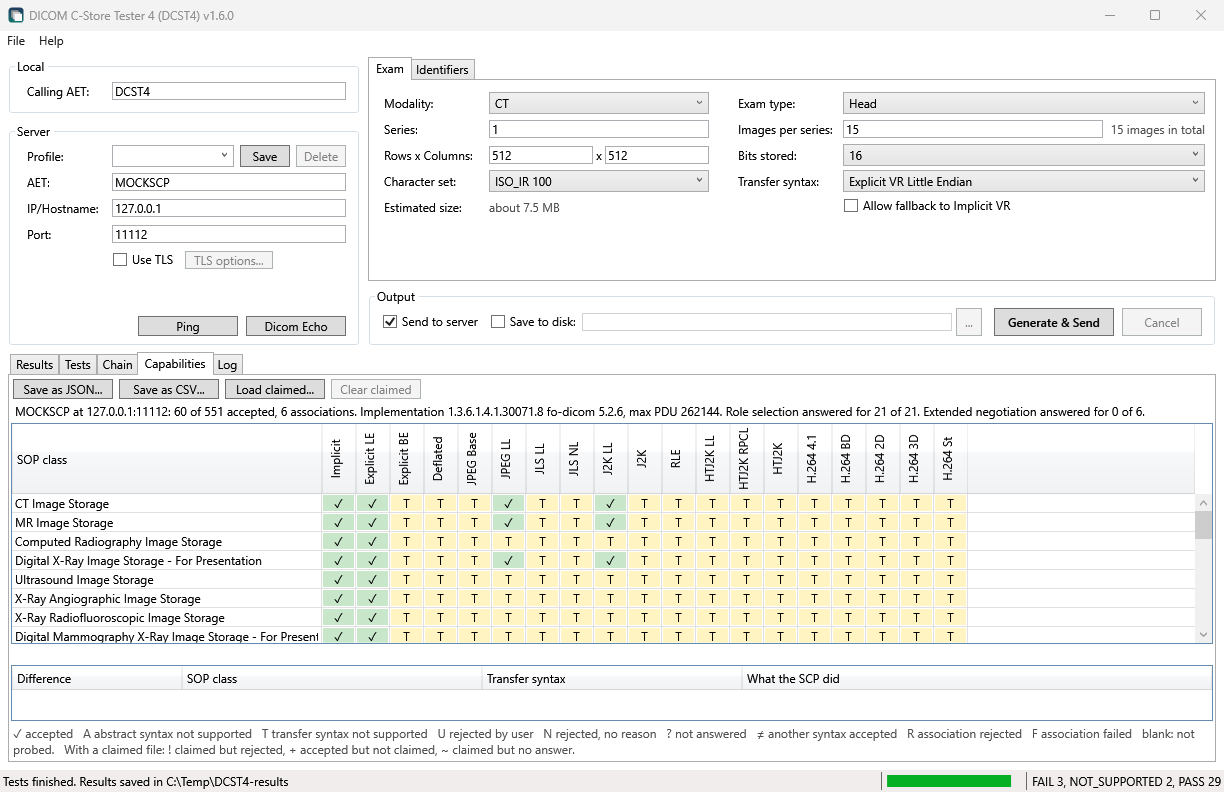
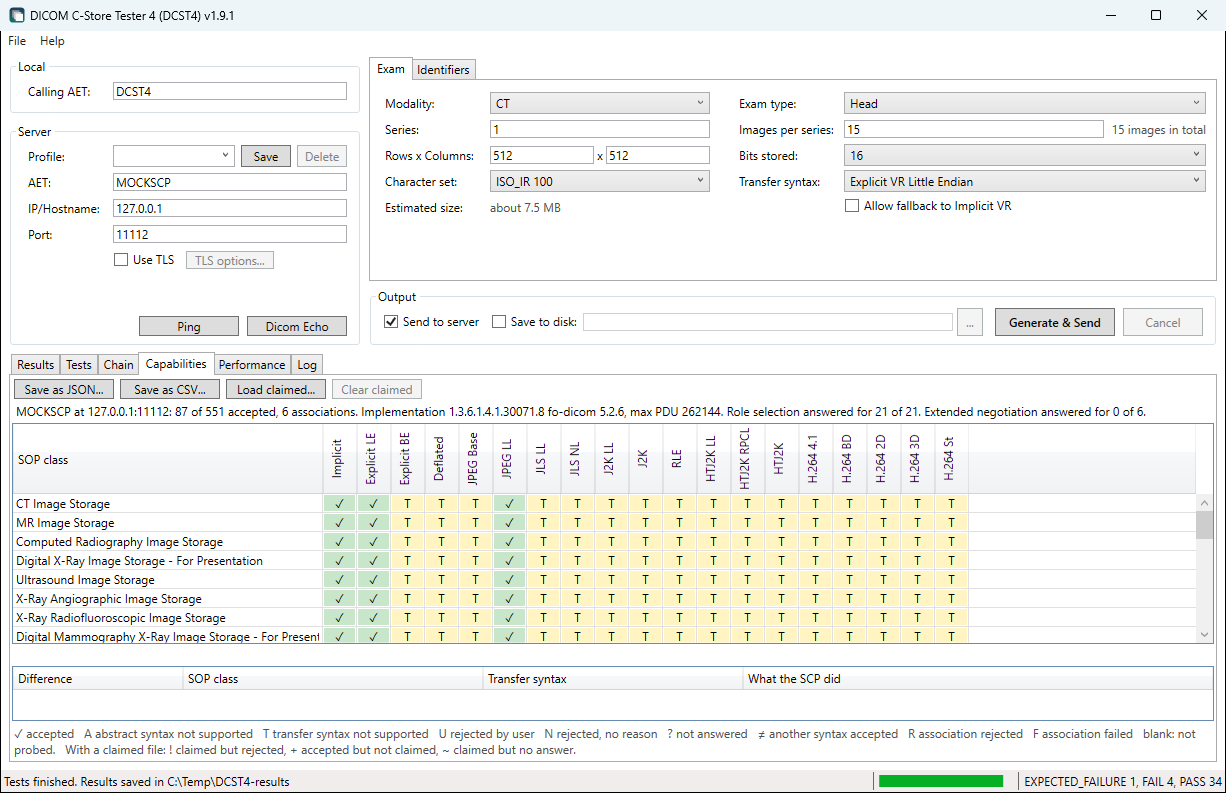
1.9.1: retake the README screenshots, and add the question, Test settings and Performance

diff --git a/README.md b/README.md
@@ -161,9 +161,13 @@ The list is grouped: Association, Store, Query, Retrieve & integrity, Storage Co
 
 **A run that stores objects asks first.** If any ticked test can leave new objects on the destination, a question names the destination and lists those tests, each with how many examinations and objects it stores and about how much data, and then the total. The sizes are uncompressed, the most a test sends; a compressed transfer syntax sends less. The question is as wide as its longest line. The run starts only on a yes. The tests that store are the store tests, `query-matching`, the duplicate and conflict tests, the two PDU limit tests and the fault tests. The command line does not ask.
 
+![The question before a run with the store, query and duplicate tests ticked](screenshots/confirm.png)
+
 While a run is going, the status bar shows which test is running, what it is doing or waiting for, and for how many seconds, for example `Test 51 of 51: Limit: connection without an association request (ARTIM). Connected without sending an A-ASSOCIATE-RQ. Waiting up to 60 s for the system to close the connection (23 s)`. The command line prints the same as a line of its own.
 
 Beside the buttons are the local AE title and port that C-MOVE and Storage Commitment reports go to. The other settings are in **Test settings...**: the UID root of the objects the tests send, the transfer syntax of the store tests, the Storage Commitment times, see [Storage Commitment](#storage-commitment), the settings of the Limits tests, see [Limits and faults](#limits-and-faults), and the results folder. They change only when you click OK, and a value that cannot be used is named and nothing is changed. **Open results folder** opens the folder in Explorer.
+
+![The Test settings dialog](screenshots/test-settings.png)
 
 ![The Tests tab after a run against the mock SCP](screenshots/tests.png)
 
@@ -472,6 +476,8 @@ Percentiles are p50, p95, p99 and the maximum, by nearest rank. They come from a
 
 **On the Performance tab** the chart shows stored and failed per second above and latency p50 and p95 below. It is drawn by DCST4 itself, as two line charts, and updated at most once a second. The warm-up is shaded and labelled, ramp steps are marked and their lines are not joined, a last second shorter than a second is left out of the lines and of the scale, and hovering shows the values of one second. A soak longer than 600 seconds is drawn in buckets, with the mean of the counts and the highest p95 of each bucket, so a peak is not lost. When the run is over, the table below the chart has one row for the run, one per ramp step with the saturated step marked, or one per soak window.
 
+![The Performance tab after a load test against the mock SCP, with the chart and the summary](screenshots/performance.png)
+
 **This computer.** The worker of each association waits on the network without holding a thread, but a TLS handshake does hold one. So while a test runs, DCST4 raises the thread pool's minimum to twice the number of associations plus eight. Otherwise the setup times at a step of 16 or 32 associations would include the wait for new threads. It also asks the garbage collector for `SustainedLowLatency`, which keeps blocking full collections out of the measurement, and puts both settings back afterwards. `DCST4.Cli.exe` runs with workstation GC and background collection, set in `DCST4.Cli.exe.config`, because the tests allocate little while they measure: the pool is encoded in advance and each association reuses one buffer for its PDUs. Server GC would add a heap and a GC thread per processor for no gain. The result records the processor use per second, the garbage collections per generation, the GC mode and the thread pool minimum, so that a busy client can be told from a slow PACS.
 
 ```powershell
@@ -765,6 +771,7 @@ Changed:
 - Nothing is ticked on the Tests tab when the program starts. Before, every test but the Limits tests was
 - Every test has a description, a group and an estimate of what it stores in DCST4.Core (`ITestCase.Description`, `Group`, `StoresObjects` and `Storage`), for any front-end
 - The Tests tab has one row of buttons and the local SCP, and **Open results folder** in place of the folder field
+- The README screenshots are retaken, with new ones of the question before a run, the Test settings dialog and the Performance tab
 
 ### 1.9.0
 
